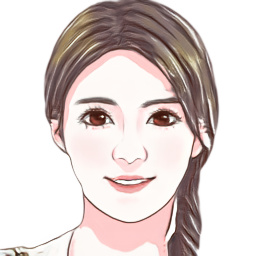
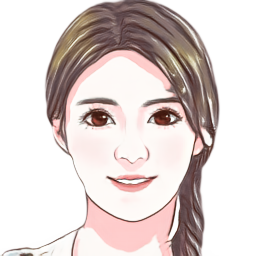
update 转换效果

diff --git a/utils/photo_to_cartoon.py b/utils/photo_to_cartoon.py
@@ -1,0 +1,48 @@
+from utils import Preprocess
+import argparse
+from models import ResnetGenerator
+import numpy as np
+import torch
+import cv2
+import os
+os.environ['TF_CPP_MIN_LOG_LEVEL'] = '2'
+
+
+class Photo2Cartoon:
+    def __init__(self):
+        self.pre = Preprocess()
+        self.device = torch.device(
+            "cuda:0" if torch.cuda.is_available() else "cpu")
+        self.net = ResnetGenerator(
+            ngf=32, img_size=256, light=True).to(self.device)
+        params = torch.load(
+            './models/photo2cartoon_weights.pt', map_location=self.device)
+        self.net.load_state_dict(params['genA2B'])
+
+    def inference(self, img):
+        # face alignment and segmentation
+        face_rgba = self.pre.process(img)
+        if face_rgba is None:
+            print('can not detect face!!!')
+            return None
+
+        face_rgba = cv2.resize(face_rgba, (256, 256),
+                               interpolation=cv2.INTER_AREA)
+        face = face_rgba[:, :, :3].copy()
+        mask = face_rgba[:, :, 3][:, :, np.newaxis].copy() / 255.
+        face = (face*mask + (1-mask)*255) / 127.5 - 1
+
+        face = np.transpose(face[np.newaxis, :, :, :],
+                            (0, 3, 1, 2)).astype(np.float32)
+        face = torch.from_numpy(face).to(self.device)
+
+        # inference
+        with torch.no_grad():
+            cartoon = self.net(face)[0][0]
+
+        # post-process
+        cartoon = np.transpose(cartoon.cpu().numpy(), (1, 2, 0))
+        cartoon = (cartoon + 1) * 127.5
+        cartoon = (cartoon * mask + 255 * (1 - mask)).astype(np.uint8)
+        cartoon = cv2.cvtColor(cartoon, cv2.COLOR_RGB2BGR)
+        return cartoon

diff --git a/app.py b/app.py
@@ -1,16 +1,49 @@
 # app.py
 from flask import Flask
 from flask import request
+from utils import Photo2Cartoon
+import cv2
+import numpy as np
+import base64
 app = Flask(__name__)
+
+
+def toCartoon(base64_data):
+    imgData = base64.b64decode(base64_data)
+    nparr = np.fromstring(imgData, np.uint8)
+    img_np = cv2.imdecode(nparr, cv2.COLOR_BGR2RGB)
+    c2p = Photo2Cartoon()
+    cartoon = c2p.inference(img_np)
+    if cartoon is not None:
+        cv_result = cv2.imencode('.jpg', cartoon)[1]
+        print('str(base64.b64encode(cv_result)', str(base64.b64encode(cv_result)))
+        base64_result = (str(base64.b64encode(cv_result))[2:-1])
+        return base64_result
+    else:
+        image_error = 'can not detect face!!!'
+        return image_error
+
 
 
 @app.route("/cartoon", methods=['GET', 'POST'])
 def hello():
     if request.method == 'POST':
         data = request.get_json()
-        print(data)
+        imageData = data['Image']
+        image_result = toCartoon(imageData)
+        print('image_result', image_result)
+        if ('not' in image_result):
+            return {
+                'status': -10086,
+                'message': image_result,
+                'data': ''
+            }
         return {
-            'Image': data['Image']
+            'data': {
+                'Image': image_result
+            },
+            'status': 0,
+            'message': ''
         }
     else:
         return 'do not GET'

diff --git a/utils/__init__.py b/utils/__init__.py
@@ -1,2 +1,3 @@
 from .preprocess import Preprocess
+from .photo_to_cartoon import Photo2Cartoon
 from .utils import *
